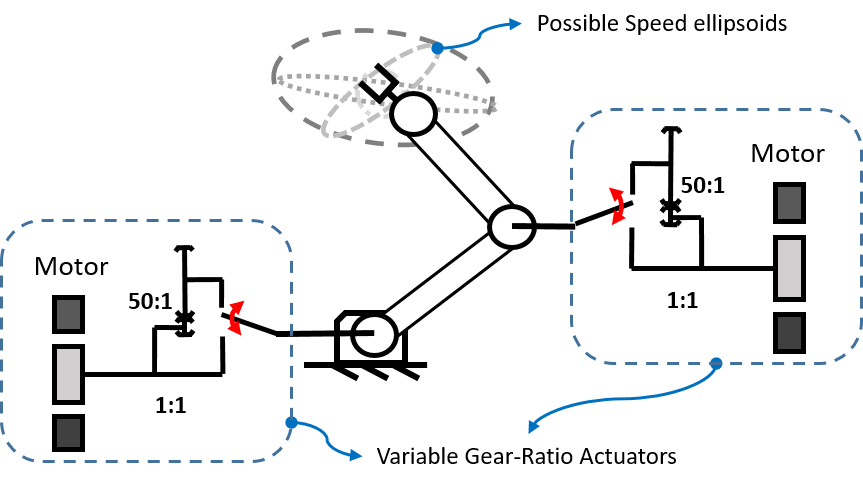
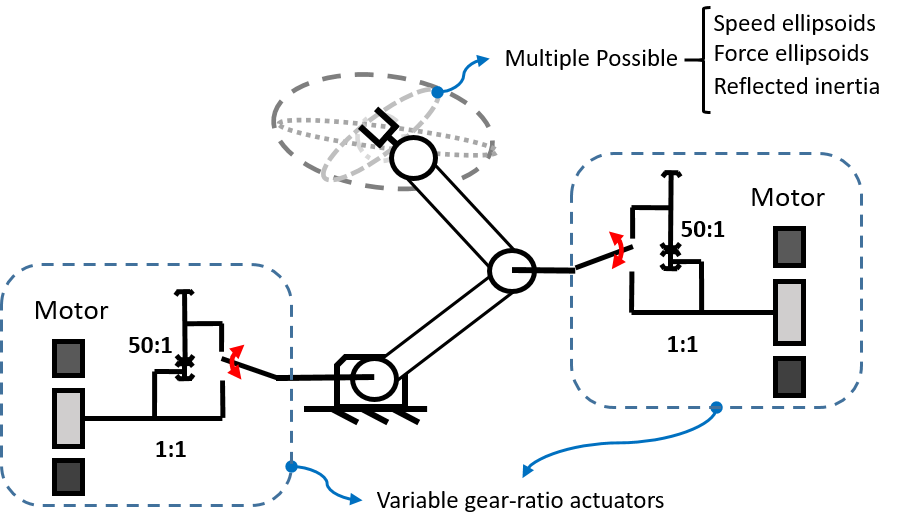
intro fig

diff --git a/src/intro.tex b/src/intro.tex
@@ -49,7 +49,7 @@ These two operating conditions, high speed at low torque vs. high torque at low 
 \label{sec:ProposedSolutionRobotsUsingMultipleGearRatioActuators}
 
 
-To meet the power requirement of all operating points with small actuators, it is proposed to use electric motors coupled to a gearbox where the gear-ratio can be drastically changed online, see Fig. \ref{fig:2s}. Then using those Variable Gear-ratio Actuator (VGA) on the many joint of robotic systems, see Fig. \ref{fig:vgarobots}.
+To meet the power requirement of all operating points with small actuators, it is proposed to use electric motors coupled to a gearbox where the gear-ratio can be drastically changed online, see Fig. \ref{fig:2s}. Then using those Variable Gear-ratio Actuator (VGA) on the many joint of robotic systems to offer a wide range of properties in term of speed, force and impedance, see Fig. \ref{fig:vgarobots}.
 
 \begin{figure}[htb]
         \centering
@@ -67,7 +67,7 @@ To meet the power requirement of all operating points with small actuators, it i
 \end{figure}
 
 
-The two main advantage of the approach are: \textbf{good power output and efficiency for a wide range of output speeds} and \textbf{radical changes of intrinsic impedance} (goes with the square of the reduction ratio). 
+The two main advantage of the VGA approach are: \textbf{good power output and efficiency for a wide range of output speeds} and \textbf{radical changes of intrinsic impedance} (goes with the square of the reduction ratio). 
 
 
 
@@ -100,7 +100,7 @@ Here differences from issues faced in the context of car power-train variable tr
 
 \subsubsection{Range of required gear-ratio}
 
-For car transmissions, gear-ratio typical range start with a ~3:1 reduction for the first gear and the last gear-ratio is an overdrive of about ~0.8:1. For robotic applications, the explored idea in this thesis is a much wider range between gear-ratio (one order-of-magnitude). For instance, the one actuator prototype has a first gear with a 474:1 reduction and a second (and last) gear with a 23:1 reduction. 
+For car transmissions, a typical gear-ratio range start with a ~3:1 reduction for the first gear and the last gear-ratio is an overdrive of about ~0.8:1. For robotic applications, the explored idea in this thesis is a much wider range between gear-ratio (one order-of-magnitude). For instance, the one built actuator prototype has a first gear with a 474:1 reduction and a second (and last) gear with a 23:1 reduction. 
 
 \subsubsection{Characteristic of transducer and driven load}
 
